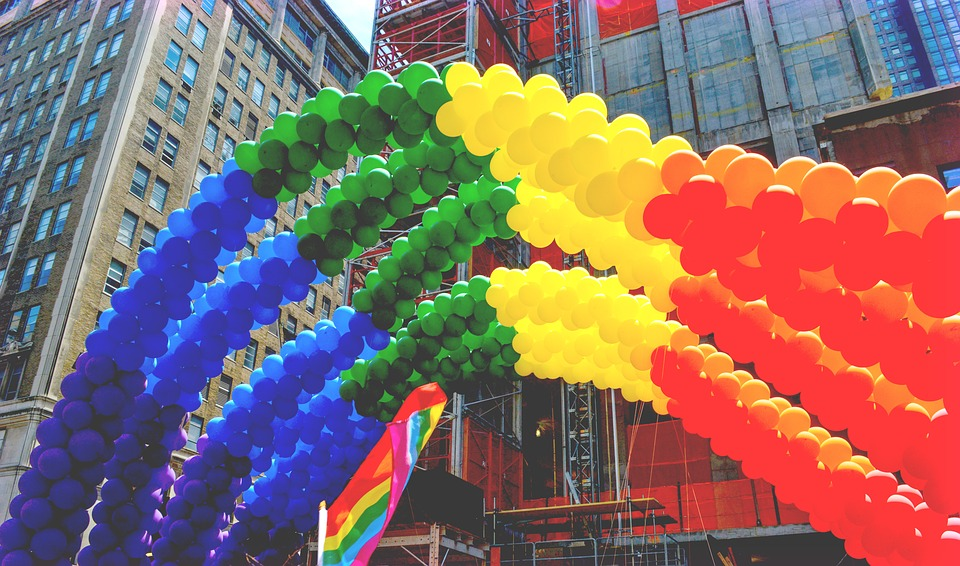
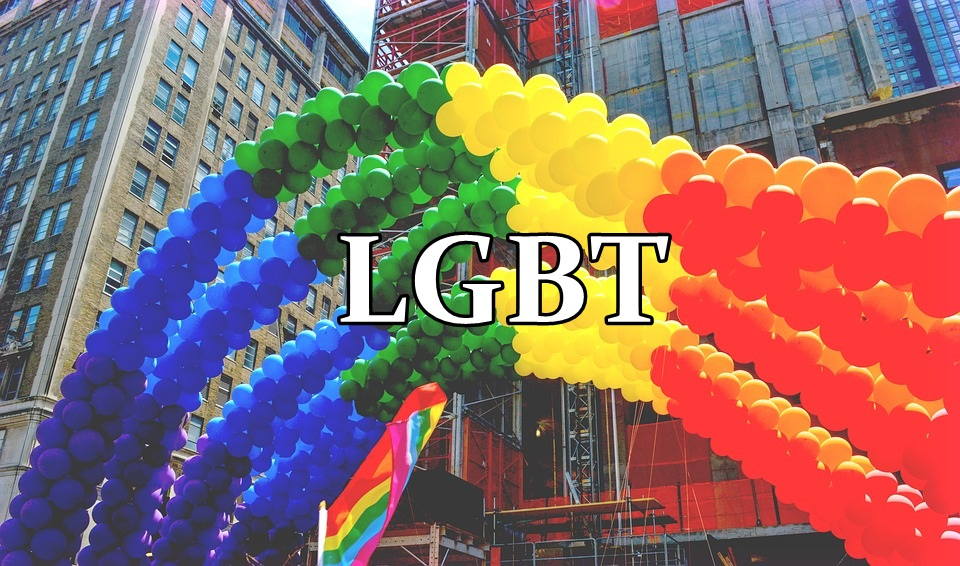
tela nova

Changed region(s): [[0.3438, 0.3905, 0.7188, 0.6007]]

diff --git a/src/pages/home/home.html b/src/pages/home/home.html
@@ -41,7 +41,7 @@
 
   <ion-card (click)="listar('LGBT')">
     <img src="assets/imgs/lgbt.jpg" />
-    <div class="card-title">LGBT</div>
+    <div class="card-title">Apoio Emocional</div>
   </ion-card>
 
   <ion-card (click)="listar('Drogas')">
